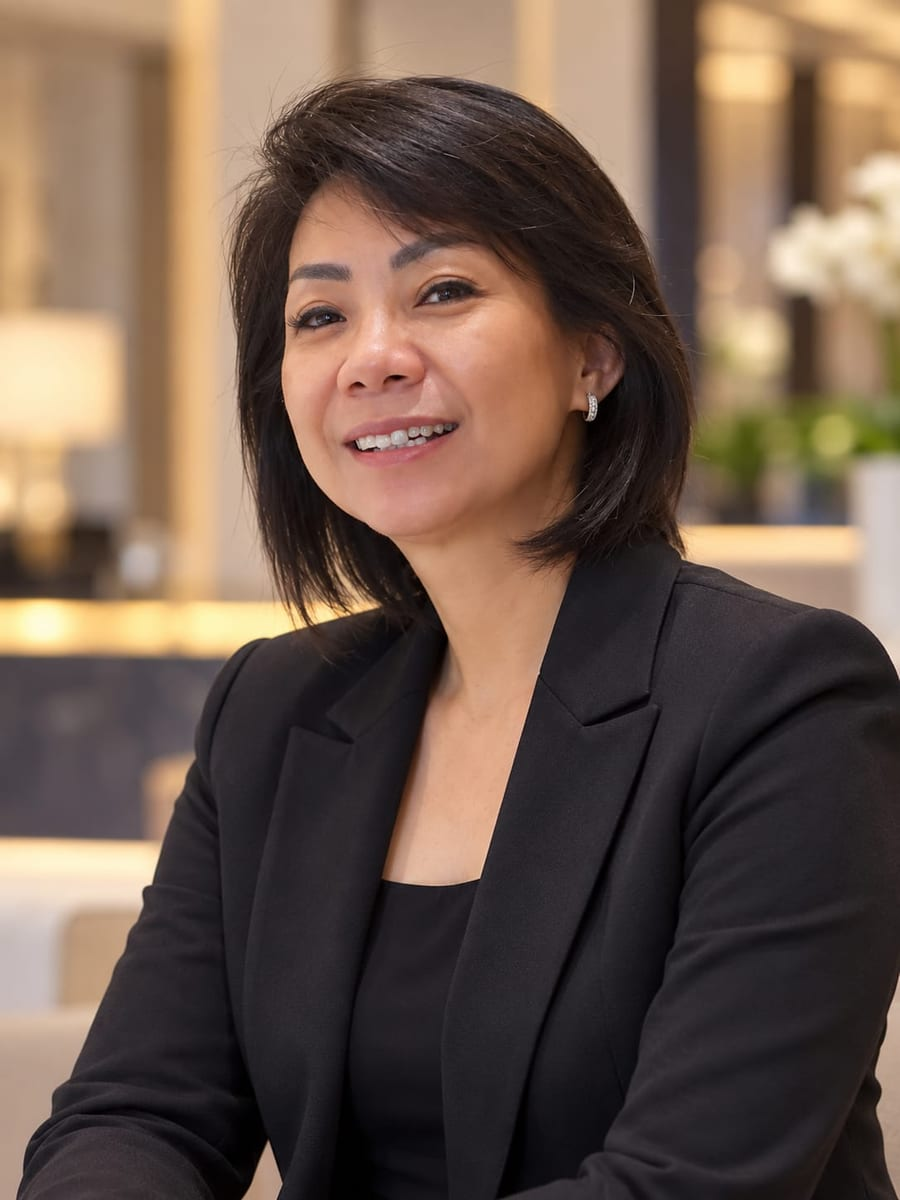
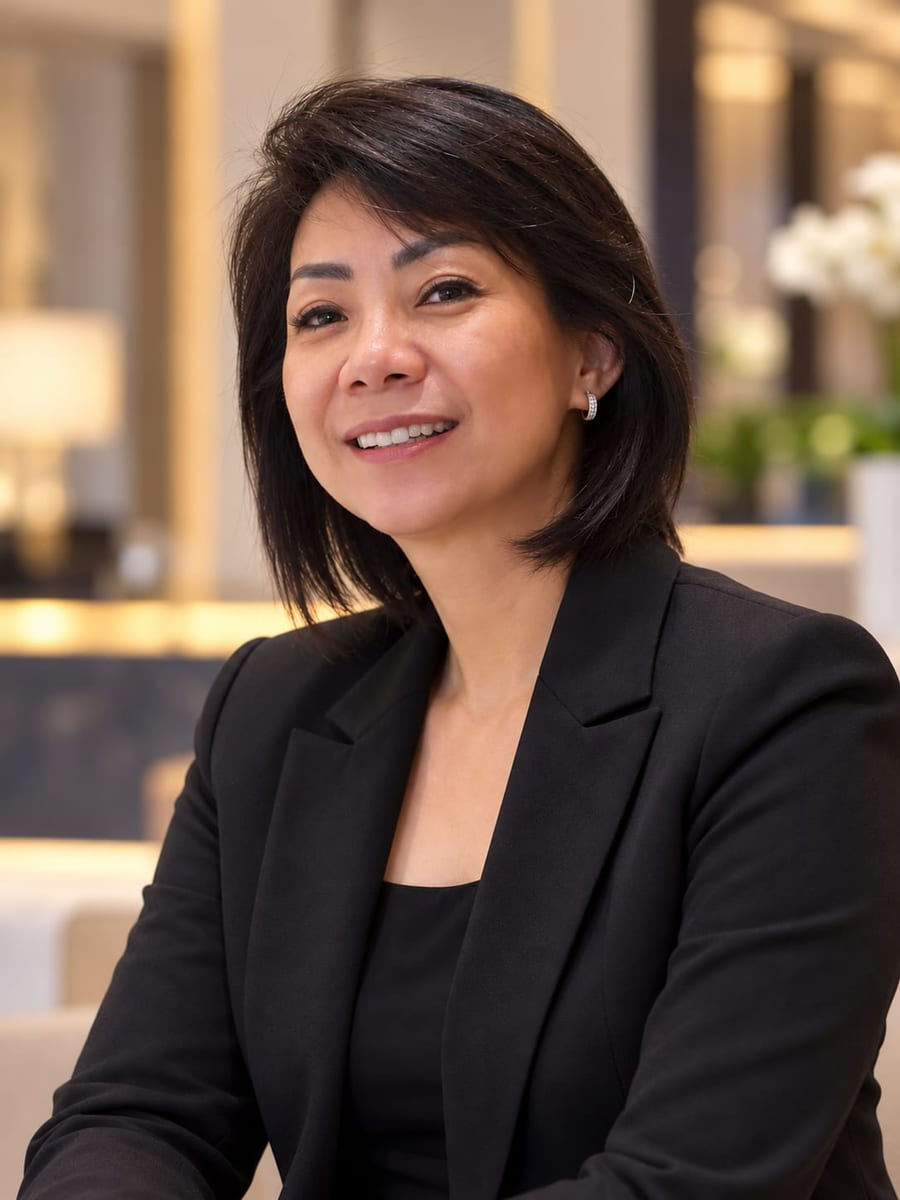
Update Yenny's portrait and add Earnest Surya's portrait

diff --git a/README.md b/README.md
@@ -271,7 +271,7 @@ Search the code for `TODO` to find each one.
 - [ ] Total rooms now compute to 393 (shown as "300+", including BNR); live rooms are shown separately
 - [ ] Service scope to be confirmed by management (`data/services.ts`)
 - [ ] WhatsApp operating hours (`contact.hours.value` in messages)
-- [ ] Real photography (only `team/hie-yenny-kristina.jpg` is real so far; the rest are labelled placeholders)
+- [ ] Real photography (only the Yenny and Earnest team portraits are real so far; the rest are labelled placeholders)
 - [ ] Instagram/LinkedIn URLs in `config/contact.ts`
 - [ ] Earnest Surya (CTO): confirm bio
 
